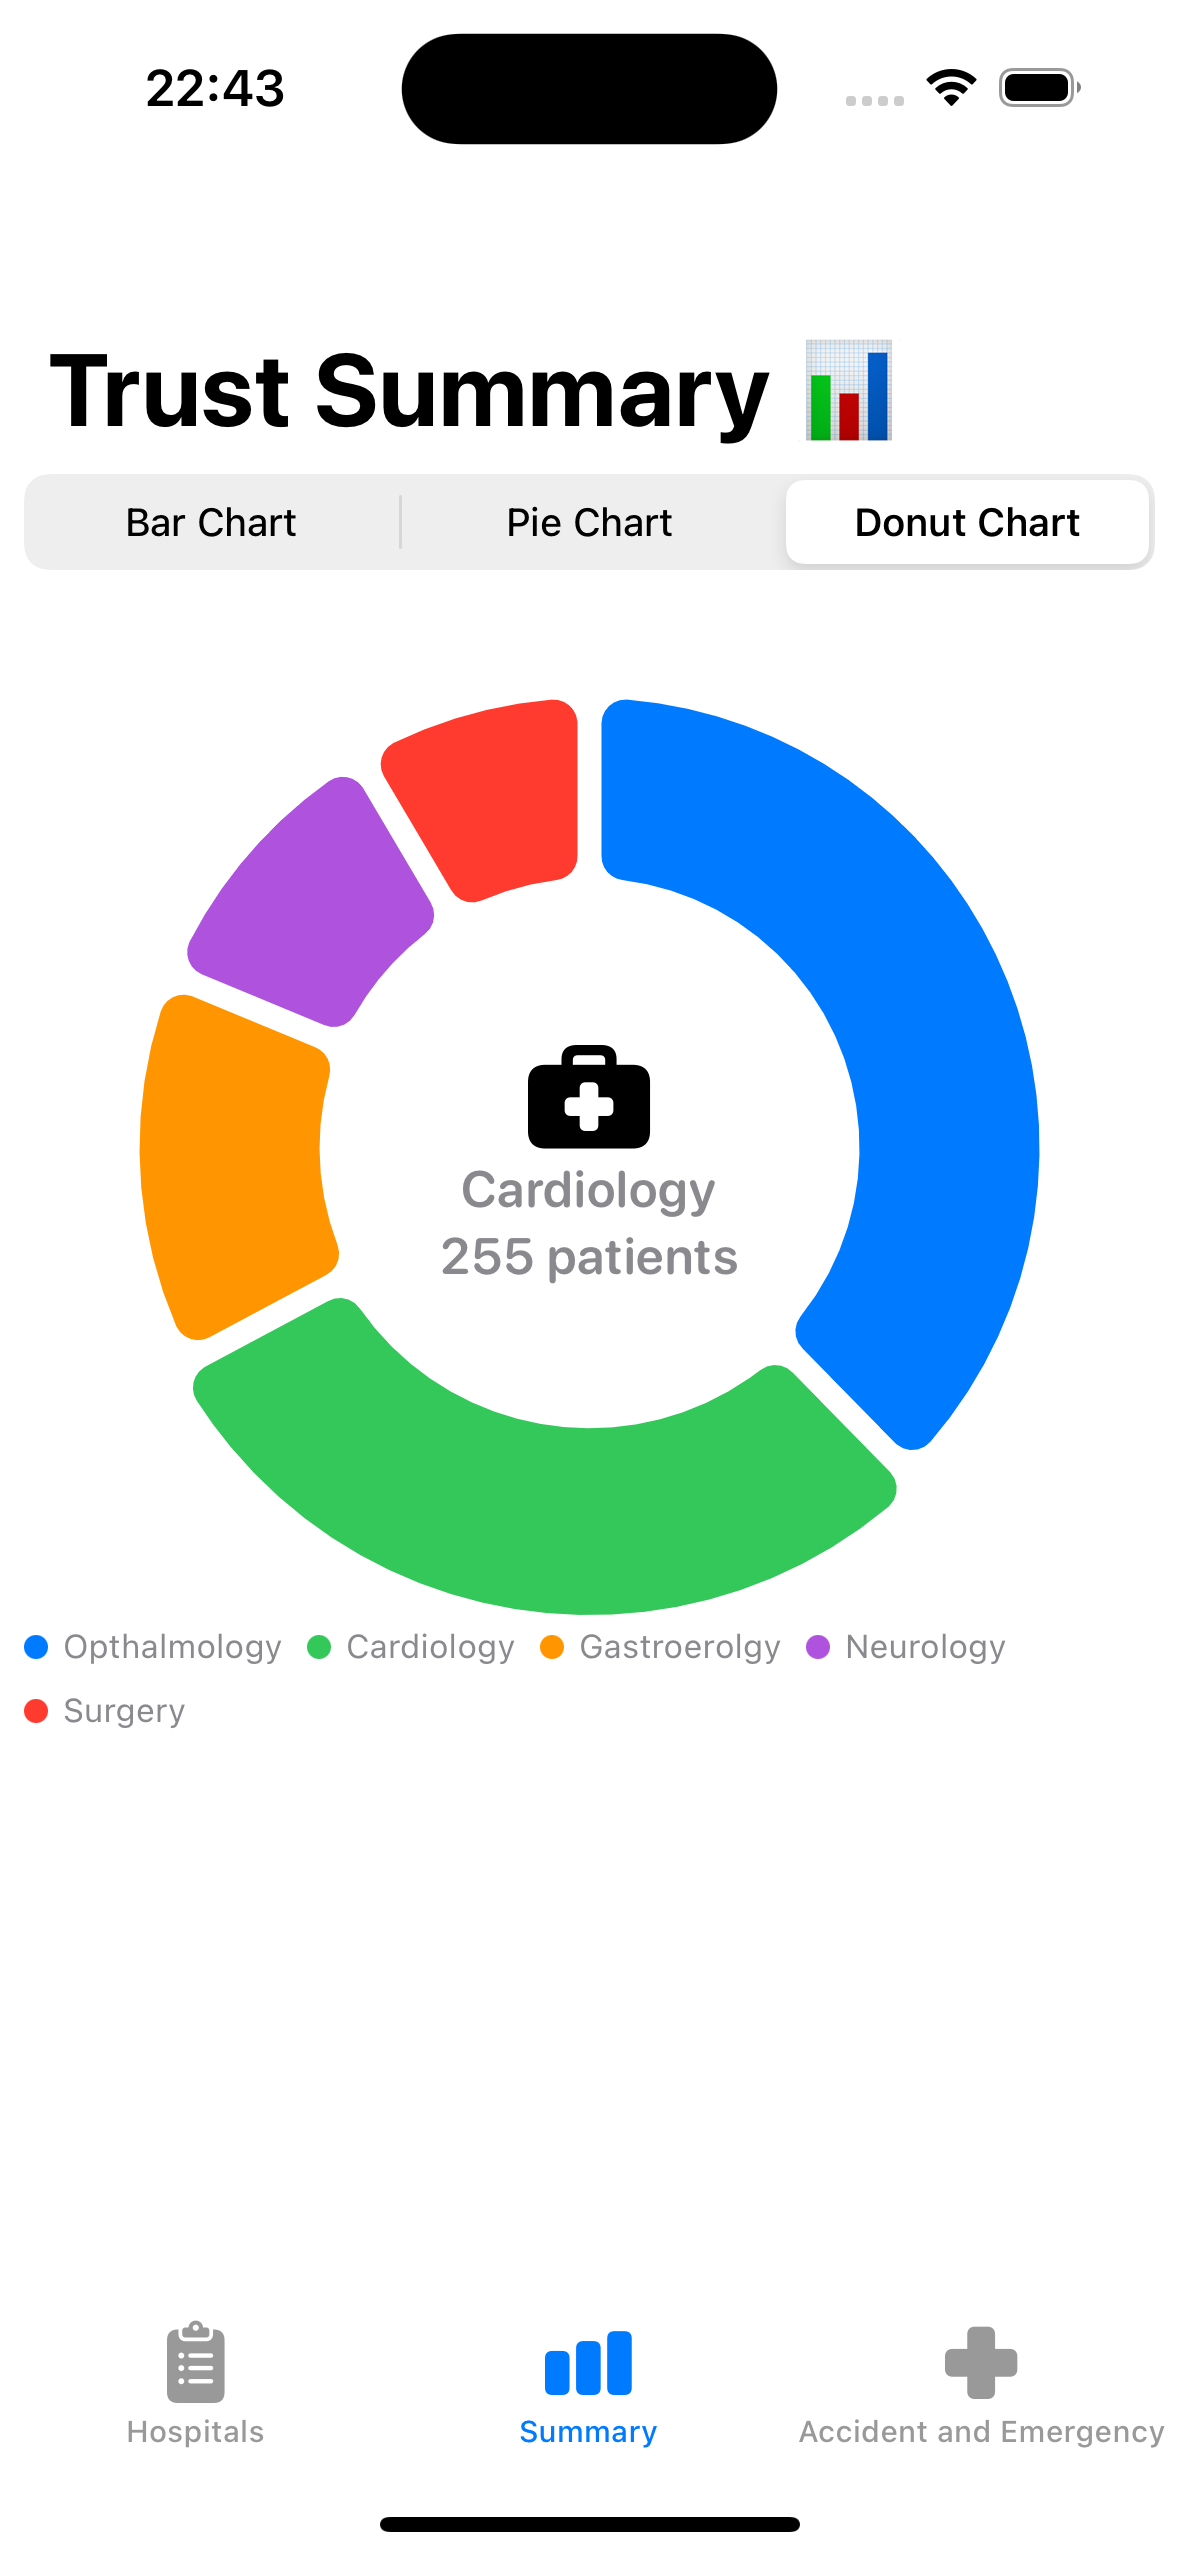
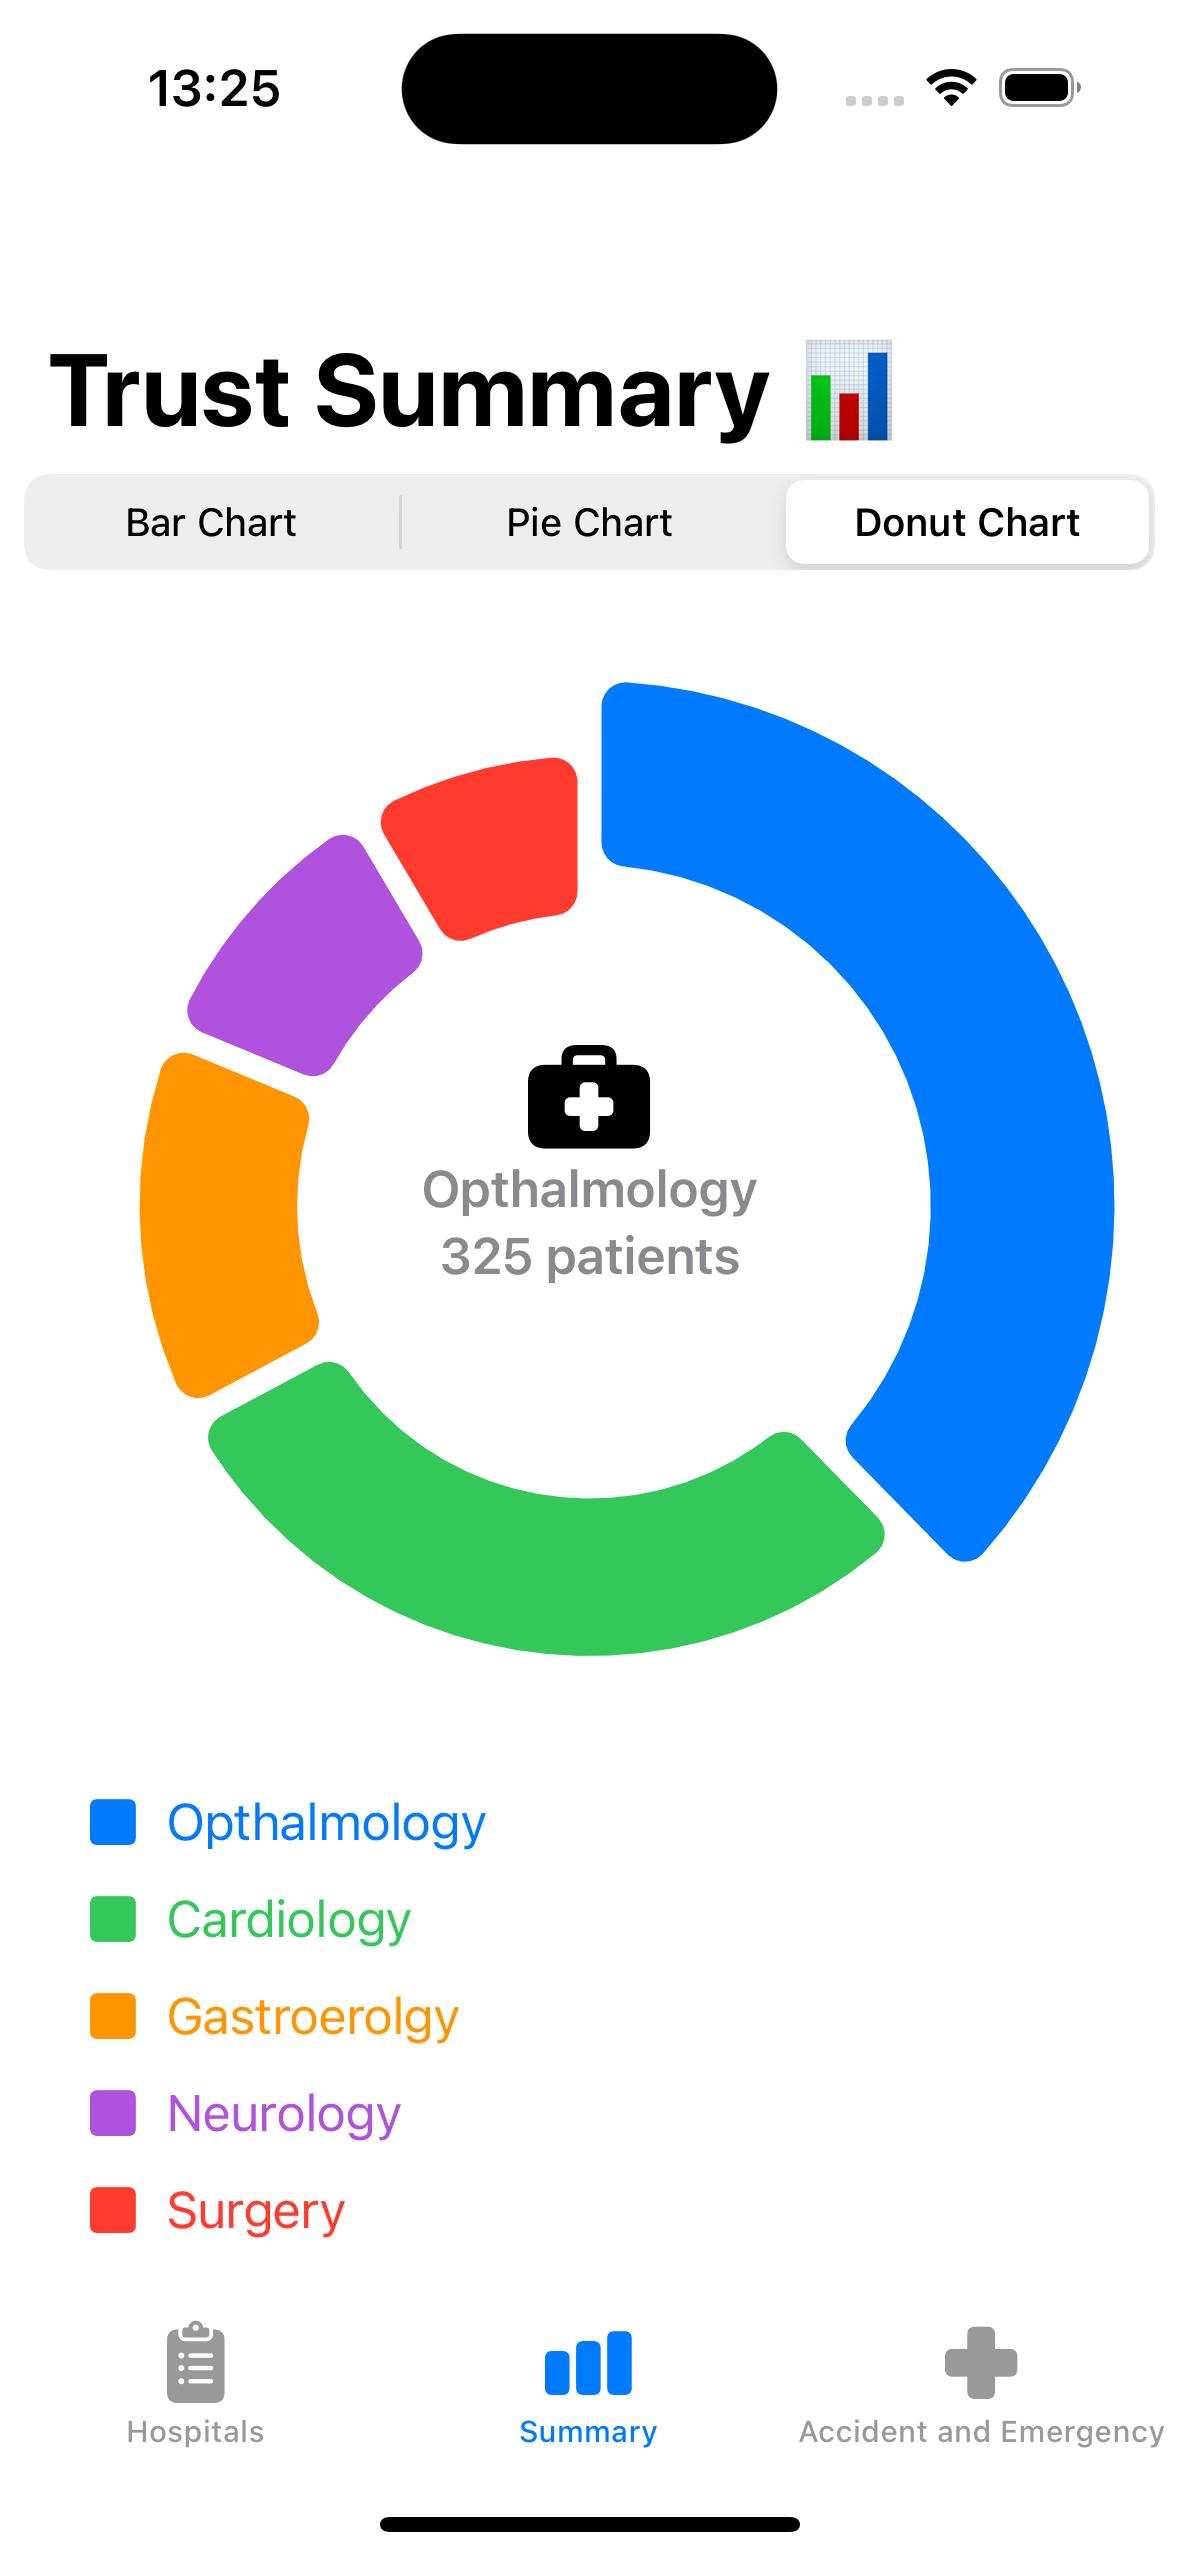
Add interactivity Pie and Donut charts and create chart legend

diff --git a/HospitalCharts/Summary/Views/SectorChartView.swift b/HospitalCharts/Summary/Views/SectorChartView.swift
@@ -5,13 +5,13 @@ struct SectorChartView: View {
    
     
     @State private var selectedNumberOfPatients: Int?
-    // We found the value above no find the department below
-    @State private var selectedDepartment: PatientsSeen?
+    @State private var selectedDepartment: PatientsSeen? = nil
     
     @Binding var graphType: GraphType
     
     
-  
+    let allPatientsSeenByDepartment = MockData.allPatientsSeen
+    let colors: [Color] = [.blue, .green, .orange, .purple, .red]
     
    
     
@@ -19,19 +19,36 @@ struct SectorChartView: View {
             
         NavigationStack {
             Chart{
-                ForEach(MockData.allPatientsSeen.sorted(by: {  $0.total > $1.total })){ item in
+                ForEach(allPatientsSeenByDepartment){ item in
                     SectorMark(angle: .value("All patients seen", item.total),
-                               innerRadius: .ratio(graphType == .donut ? 0.6 : 0),
-                               outerRadius: selectedDepartment?.department.rawValue == item.department.rawValue ? 175 : 150,
+                               innerRadius: .ratio(graphType == .donut ? 0.65 : 0),
+                               outerRadius: selectedDepartment?.department.rawValue == item.department.rawValue ? 176 : 150,
                                angularInset: graphType == .donut ? 4 : 1.5
                               )
+                              .foregroundStyle(item.color)
+                    .annotation(position: .overlay){
+                        if graphType == .pie{
+                            Text("\(item.total)")
+                                .fontWeight(.semibold)
+                                .foregroundStyle(.white)
+                        }
+                        
+                    }
                               .foregroundStyle(by: .value("All patients seen", item.department.rawValue))
                               .cornerRadius(8)
-                        
-                    
                 }
             }
+            .chartLegend(Visibility.hidden)
             .chartAngleSelection(value: $selectedNumberOfPatients)
+            .onChange(of: selectedNumberOfPatients, { oldValue, newValue in
+                if let newValue{
+                    withAnimation {
+                        getSelectedDepartment(value: newValue)
+                    }
+                    
+                }
+
+            })
             .frame(height: 350)
             .padding(.top, 30)
             .chartBackground{ _ in
@@ -43,17 +60,45 @@ struct SectorChartView: View {
                         if let selectedSegment = selectedDepartment{
                             VStack{
                                 Text(selectedSegment.department.rawValue)
+                                    
                                 Text("\(Int(selectedSegment.total)) patients")
+                                    
                             }
-                            .font(.system(.headline, design: .rounded))
+                            .font(.headline)
                             .foregroundStyle(.secondary)
+                        }else{
+                            VStack{
+                                Text("Select a segment")
+                            }
+                            
                         }
                     }
                 }
             }
-            Spacer()
+            ChartLegendView()
+        
+           Spacer()
+          
         }
-        Spacer()
+    }
+    
+    private func getSelectedDepartment(value: Int){
+        
+        var culmativeTotal = 0
+        
+        let department = allPatientsSeenByDepartment.first{ item in
+            culmativeTotal += item.total
+            if value <= culmativeTotal{
+
+                selectedDepartment = item
+
+
+                return true
+            }
+            return false
+        }
+        
+        
     }
 }
 

diff --git a/HospitalCharts/Constants/MockData.swift b/HospitalCharts/Constants/MockData.swift
@@ -134,13 +134,13 @@ struct MockData{
     //    ]
     //
     static let allPatientsSeen: [PatientsSeen] = [
-        .init(total: 325, department: .opthalmology),
-        .init(total: 255, department: .cardiology),
-        .init(total: 121, department: .gastroerolgy),
-        .init(total: 89, department: .neurology),
-        .init(total: 73, department: .surgery)
+        .init(total: 325, department: .opthalmology, color: .blue),
+        .init(total: 255, department: .cardiology, color: .green),
+        .init(total: 121, department: .gastroerolgy, color: .orange),
+        .init(total: 89, department: .neurology, color: .purple),
+        .init(total: 73, department: .surgery, color: .red)
     ]
-    
+
     
     static func createDate(year: Int, month: Int, day: Int) -> Date? {
         var components = DateComponents()

diff --git a/HospitalCharts/Summary/Views/Subviews/ChartLegendView.swift b/HospitalCharts/Summary/Views/Subviews/ChartLegendView.swift
@@ -1,0 +1,23 @@
+import SwiftUI
+
+struct ChartLegendView: View {
+    var body: some View {
+        VStack(alignment: .leading, spacing: 12){
+            HStack{
+                
+                Spacer()
+            }
+            ForEach(MockData.allPatientsSeen){ item in
+                Label(item.department.rawValue, systemImage: "square.fill")
+                    .foregroundStyle(item.color)
+            }
+            .padding(.horizontal, 20)
+    
+            
+        }
+    }
+}
+
+#Preview {
+    ChartLegendView()
+}

diff --git a/HospitalCharts/Summary/Views/BarChartView.swift b/HospitalCharts/Summary/Views/BarChartView.swift
@@ -26,8 +26,10 @@ struct BarChartView: View {
                 }
                 
             }
-            .frame(height: 450)
+            .frame(height: 380)
+            .chartLegend(Visibility.hidden)
             .chartXSelection(value: $selectedDepartment)
+            
             .chartXAxis{
                 AxisMarks{}
             }
@@ -39,6 +41,7 @@ struct BarChartView: View {
                    AxisValueLabel{}
                 }
             }
+            ChartLegendView()
         }
             
         

diff --git a/HospitalCharts/Constants/Constants.swift b/HospitalCharts/Constants/Constants.swift
@@ -1,5 +1,5 @@
 import Foundation
-
+import SwiftUI
 
 
 let monthSelection = ["Mar", "Apr", "May"]
@@ -15,4 +15,5 @@ struct PatientsSeen: Identifiable{
     var id = UUID()
     var total: Int
     var department: Department
+    var color: Color
 }
